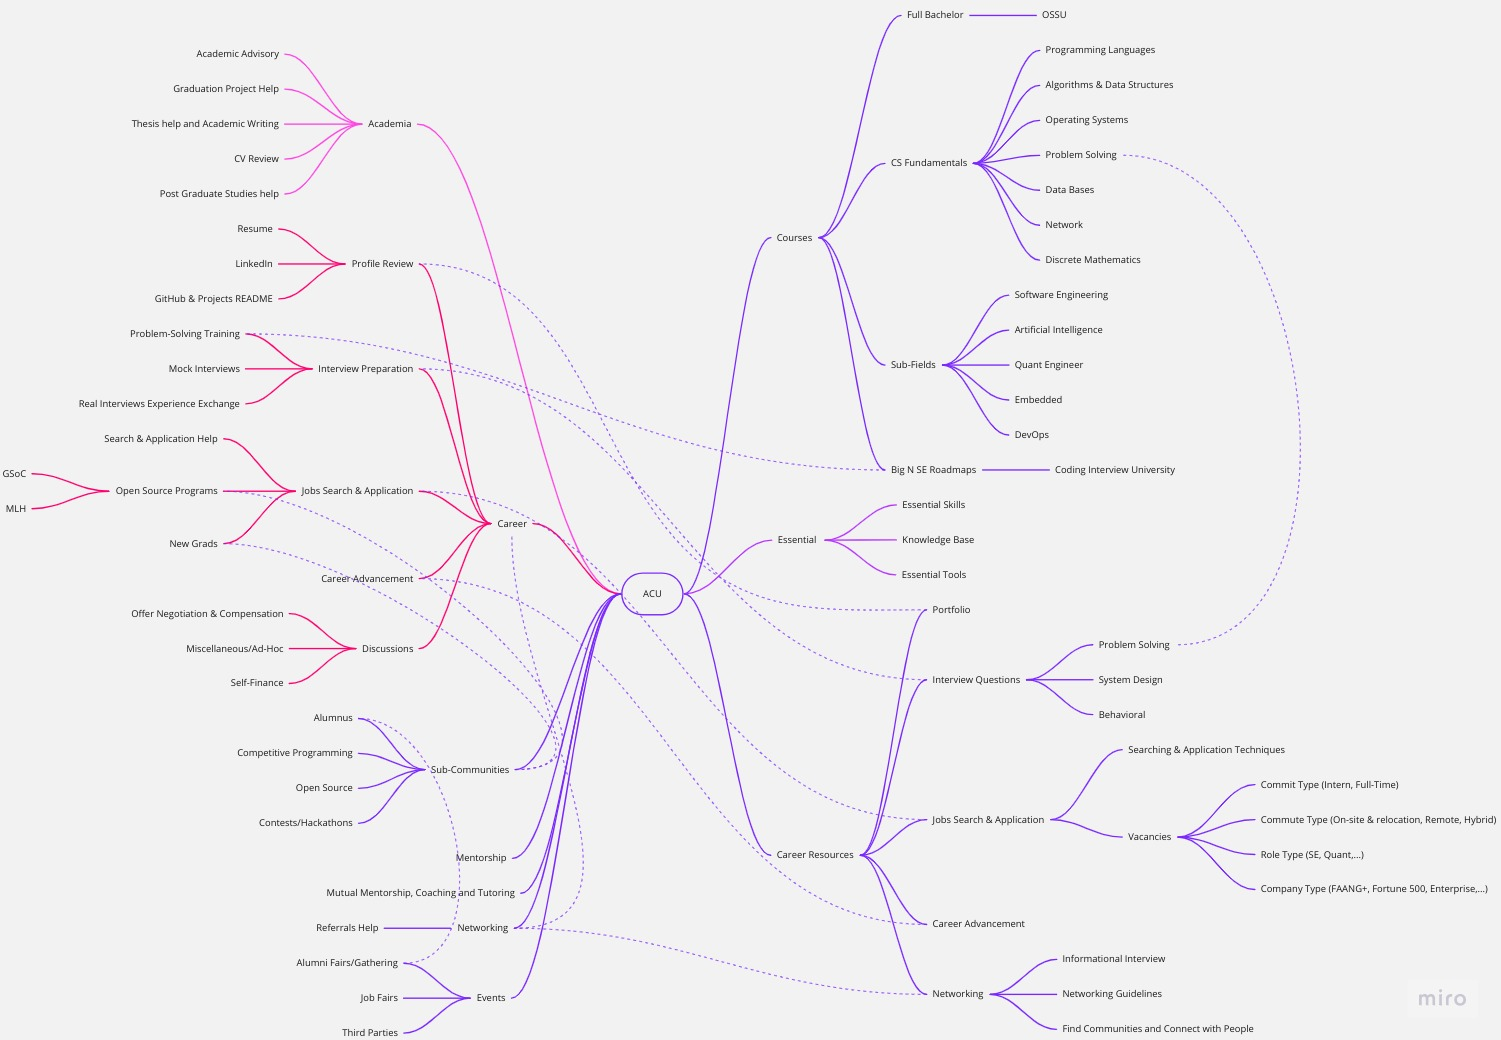
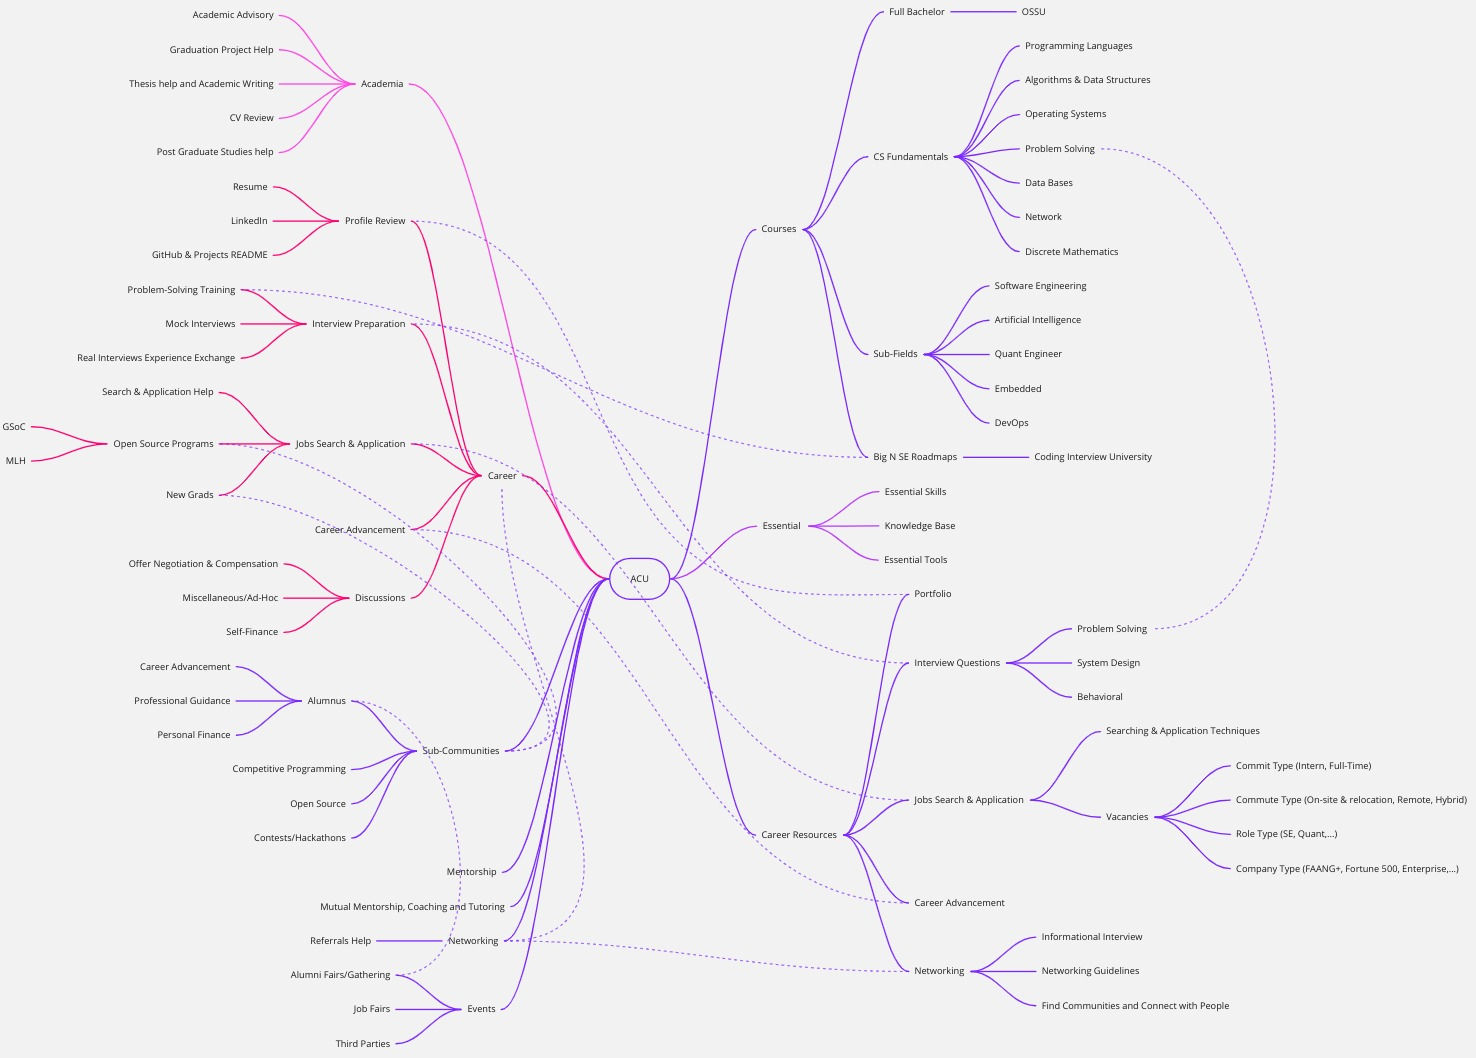
Add: Alumni

diff --git a/README.md b/README.md
@@ -327,8 +327,9 @@ Third-party events are available only on the Arabic ACU Server in recommended ev
     5. mutual-apply: Apply together at the same time to the same vacancy.
 12. ALUMNI:
     1. general-alumni: For other uncategorized alumnus topics of interest.
-    2. career-advancement: For All career questions & knowledge exchange of Alumnus.
-    3. personal-finance: Money transactions, taxes, benefits, retirement, Investment, and so on.
+    2. professional-inquiry: For professional communication, conflict resolution, and negotiation questions & guidance. Mainly for Alumni, but Students can participate.
+    3. career-advancement: For All career questions & knowledge exchange of Alumnus.
+    4. personal-finance: Money transactions, taxes, benefits, retirement, Investment, and so on.
 13. ARCHIVE: Old channels replaced with ways/channels of doing things or that do not have traffic anymore.
 
 ## About Us
